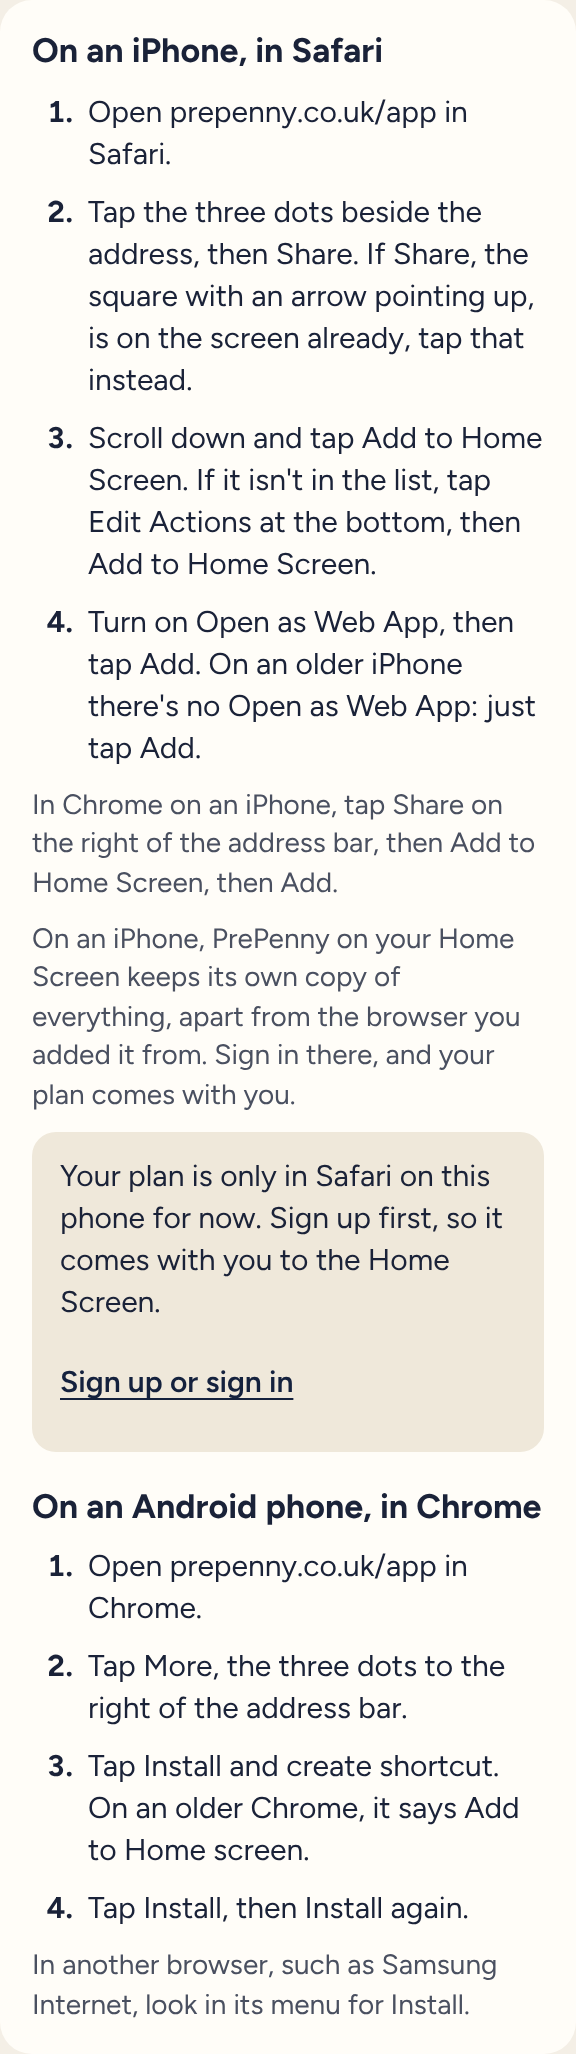
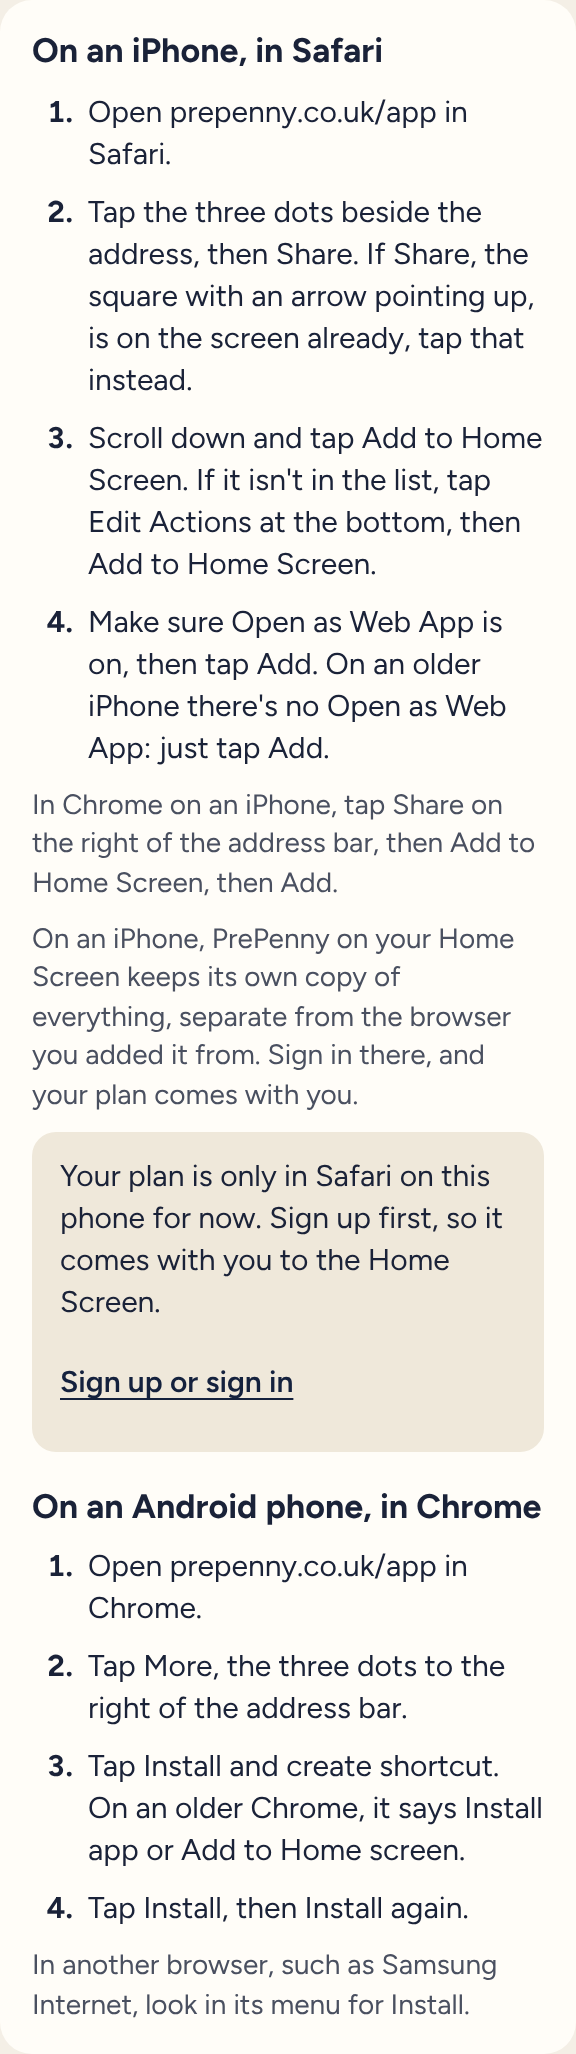
Tests from the outside review of step 4d: each fails without what it checks (D554)
Claude-Session: https://claude.ai/code/session_01R7WB9raqPh4B6kXPVtPQbS

diff --git a/apps/web/e2e/home-screen.spec.ts b/apps/web/e2e/home-screen.spec.ts
@@ -87,6 +87,13 @@ async function skipToPlan(page: Page) {
 
 const suggestion = (page: Page) => page.getByTestId('home-screen-suggestion');
 
+/** Waits until Home has kept the first day it showed the person's own plan. */
+async function dayKept(page: Page) {
+  await expect
+    .poll(() => page.evaluate(() => localStorage.getItem('prepenny-home-screen') ?? ''))
+    .toContain(DAY_1);
+}
+
 /** Chrome's offer to install, as Chrome sends it, with the person's answer. */
 async function browserOffers(page: Page, outcome: 'accepted' | 'dismissed') {
   await page.evaluate((answer) => {
@@ -110,7 +117,8 @@ for (const colorScheme of ['light', 'dark'] as const) {
       page,
     }) => {
       await setUpOwnPlan(page);
-      // Day 1: not yet, even opened again.
+      // Day 1: not yet, even opened again, once Home has kept the day (D554).
+      await dayKept(page);
       await expect(suggestion(page)).toHaveCount(0);
       await page.reload();
       await expect(page.getByTestId('lowest-point')).toBeVisible();
@@ -205,11 +213,17 @@ for (const colorScheme of ['light', 'dark'] as const) {
       page,
     }) => {
       await setUpOwnPlan(page);
-      await openHomeOn(page, DAY_2);
-      await expect(suggestion(page)).toBeVisible();
+      await page.addInitScript(settingScript, [TEST_SETTING_KEY, { today: DAY_2 }] as const);
+      // Chrome offers it while More is showing, then Home is opened.
+      await page.goto('/app/more/');
       await browserOffers(page, 'accepted');
       // PrePenny kept Chrome from suggesting it by itself, and asks with its own button.
       expect(await page.evaluate(() => Reflect.get(window, '__offerKeptBack'))).toBe(true);
+      await page
+        .getByRole('navigation', { name: 'Main' })
+        .getByRole('link', { name: 'Home' })
+        .click();
+      await expect(suggestion(page)).toBeVisible();
       const add = suggestion(page).getByRole('button', { name: t.addNow });
       await expect(add).toBeVisible();
       await expect(suggestion(page).getByRole('button', { name: t.suggest.showMeHow })).toHaveCount(
@@ -228,7 +242,52 @@ for (const colorScheme of ['light', 'dark'] as const) {
       await browserOffers(page, 'dismissed');
       await page.getByRole('button', { name: t.addNow }).click();
       await expect(page.getByTestId('install-said')).toHaveText(t.notAdded);
+      // The button has gone, so focus is on what the browser said (D554).
+      await expect(page.getByTestId('install-said')).toBeFocused();
       await noAxeProblems(page);
+    });
+
+    test("3. an offer arriving after Home is drawn doesn't change the button under a finger", async ({
+      page,
+    }) => {
+      await setUpOwnPlan(page);
+      await openHomeOn(page, DAY_2);
+      await expect(
+        suggestion(page).getByRole('button', { name: t.suggest.showMeHow }),
+      ).toBeVisible();
+      await browserOffers(page, 'accepted');
+      // Still "Show me how": its sheet offers Chrome's install instead (D554).
+      await expect(
+        suggestion(page).getByRole('button', { name: t.suggest.showMeHow }),
+      ).toBeVisible();
+      await suggestion(page).getByRole('button', { name: t.suggest.showMeHow }).click();
+      const sheet = page.getByRole('dialog', { name: t.heading });
+      await sheet.getByRole('button', { name: t.addNow }).click();
+      await expect(sheet.getByTestId('install-said')).toHaveText(t.added);
+      await expect(sheet.getByTestId('install-said')).toBeFocused();
+    });
+
+    test('3. added from Chrome itself, or installed before, is never suggested', async ({
+      page,
+    }) => {
+      // Chrome says PrePenny was added, with nothing answered.
+      await setUpOwnPlan(page);
+      await dayKept(page);
+      await page.evaluate(() => window.dispatchEvent(new Event('appinstalled')));
+      await openHomeOn(page, DAY_2);
+      await expect(page.getByTestId('lowest-point')).toBeVisible();
+      await expect(suggestion(page)).toHaveCount(0);
+    });
+
+    test('3. Chrome saying PrePenny is installed already counts too', async ({ page }) => {
+      await page.addInitScript(() => {
+        Reflect.set(navigator, 'getInstalledRelatedApps', async () => [{ platform: 'webapp' }]);
+      });
+      await setUpOwnPlan(page);
+      await dayKept(page);
+      await openHomeOn(page, DAY_2);
+      await expect(page.getByTestId('lowest-point')).toBeVisible();
+      await expect(suggestion(page)).toHaveCount(0);
     });
 
     test('4. never while PrePenny is open from the home screen, and More says so', async ({
@@ -333,15 +392,14 @@ for (const colorScheme of ['light', 'dark'] as const) {
       await page.addStyleTag({ content: 'html { font-size: 200% !important; }' });
       expect(await layoutProblems(page)).toEqual([]);
 
-      // Or setup here in Safari.
-      await sheet.getByRole('button', { name: t.before.makeHere }).click();
-      await expectStep(page, 1, 'Your account');
-
-      // Answered: never again, before setup or on Home on the second day.
-      await page.getByRole('button', { name: 'Back', exact: true }).click();
-      await page.getByRole('button', { name: 'Carry on making my plan' }).click();
+      // Answered: closed now, and "Make my plan" goes straight to setup, before setup has started (D554).
+      await sheet.getByRole('button', { name: strings.sheet.close }).click();
+      await expect(sheet).toBeHidden();
+      await page.reload();
+      await make.click();
       await expectStep(page, 1, 'Your account');
       await expect(page.getByRole('dialog')).toHaveCount(0);
+      // Never again on Home on the second day either.
       await fillAccount(lastForm(page, 'account'), {
         name: 'Current account',
         balance: '410',
@@ -421,6 +479,35 @@ for (const colorScheme of ['light', 'dark'] as const) {
         await context.close();
       });
     }
+
+    test("4. a laptop in full screen isn't taken for the home screen", async ({ page }) => {
+      await page.addInitScript(() => {
+        const real = window.matchMedia.bind(window);
+        window.matchMedia = (query: string) =>
+          query.includes('display-mode: fullscreen')
+            ? ({ ...real(query), matches: true, media: query } as MediaQueryList)
+            : real(query);
+      });
+      await setUpOwnPlan(page);
+      await page.goto('/app/more/');
+      await expect(page.getByTestId('home-screen')).toContainText(t.more.line);
+      await expect(page.getByTestId('home-screen')).not.toContainText(t.more.lineAdded);
+    });
+
+    test('6. in Chrome on an iPhone, "sign up first" says this browser, not Safari', async ({
+      browser,
+    }) => {
+      const context = await browser.newContext({
+        userAgent: IPHONE_CHROME,
+        colorScheme,
+        viewport: { width: 360, height: 780 },
+      });
+      const page = await context.newPage();
+      await setUpOwnPlan(page);
+      await page.goto('/app/home-screen/');
+      await expect(page.getByTestId('sign-up-first')).toContainText(t.iphone.signUpFirstHere);
+      await context.close();
+    });
 
     test('1. a laptop is never asked on Home either', async ({ page }) => {
       await setUpOwnPlan(page);
